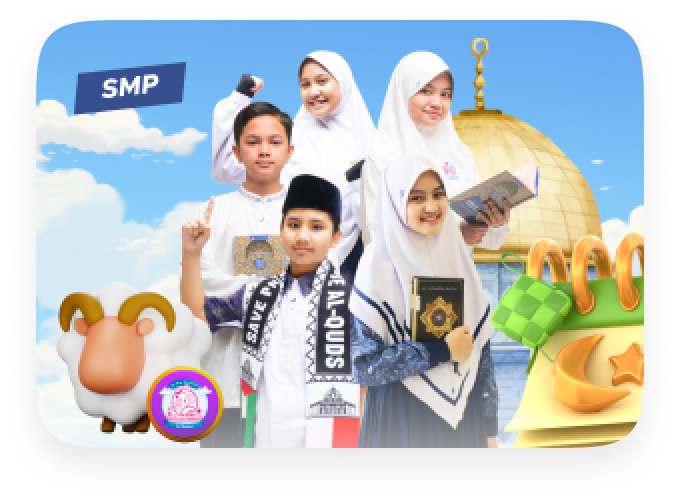
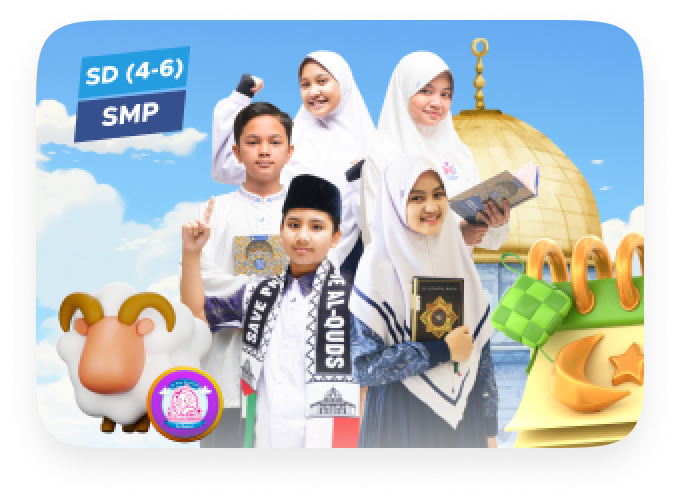
update edukasi qurban klasifikasi jenjang materi

Changed region(s): [[0.0926, 0.09, 0.2779, 0.3]]

diff --git a/app/Http/Controllers/QurbanController.php b/app/Http/Controllers/QurbanController.php
@@ -8,6 +8,7 @@ use App\Models\HaveWatch;
 use App\Models\Profile;
 use Illuminate\Http\Request;
 use Illuminate\Support\Facades\Auth;
+use Illuminate\Support\Facades\DB;
 use Illuminate\Support\Facades\Storage;
 use Maatwebsite\Excel\Facades\Excel;
 
@@ -117,9 +118,38 @@ class QurbanController extends Controller
         $user_id = Auth::user()->id;
         $user_phone = Auth::user()->no_hp;
 
-        $get_jenjang = Profile::where('no_hp_ibu', $user_phone)->groupby('sekolah_id')->get();
+        $keys = ['7', '5', '6', '7', '8', '9'];
+        $keywords = [];
+        foreach($keys as $key){
+            $keywords[] = ['nama_kelas', 'LIKE', '%'.$key.'%'];
+        }
 
-        return view('ortu.qurban.index', compact('get_jenjang'));
+        $get_jenjang_tksd = DB::table('m_profile')->where('no_hp_ibu', $user_phone)  
+                            ->Where(function ($query) {
+                                $query->whereIn('jenjang_id', [1,2])
+                                    ->orwhere('nama_kelas', 'like', '1%')
+                                    ->orwhere('nama_kelas', 'like', '2%')
+                                    ->orwhere('nama_kelas', 'like', '3%');
+                                    
+
+                            })
+                            ->groupBy('no_hp_ibu')
+                            ->get();
+
+        $get_jenjang = DB::table('m_profile')->where('no_hp_ibu', $user_phone) 
+                            ->Where(function ($query) {
+                                $query->where('jenjang_id', 4)
+                                    ->orwhere('nama_kelas', 'like', '4%')
+                                    ->orwhere('nama_kelas', 'like', '5%')
+                                    ->orwhere('nama_kelas', 'like', '6%')
+                                    ->orwhere('nama_kelas', 'like', '7%')
+                                    ->orwhere('nama_kelas', 'like', '8%')
+                                    ->orwhere('nama_kelas', 'like', '9%');
+                            })
+                            ->groupBy('no_hp_ibu')
+                            ->get();
+
+        return view('ortu.qurban.index', compact('get_jenjang_tksd', 'get_jenjang'));
         
     }
 

diff --git a/resources/views/ortu/qurban/index.blade.php b/resources/views/ortu/qurban/index.blade.php
@@ -11,24 +11,24 @@
     </div>
 
     <div class="container mt-0 pt-0">
-        @foreach ($get_jenjang as $item)
-            @if ($item->sekolah_id != 'UBRSMP' || $item->user_id == 2)
+        @if ($get_jenjang_tksd)
+            @foreach ($get_jenjang_tksd as $item)
                 <div class="center">
                     <a style="text-decoration: none" href="{{route('qurban.tksd')}}"> 
                         <img src="{{ asset('assets/images/qurban-tksd.png') }}" alt="qrb_tk_sd" style="border-radius: 0.4rem" width="100%" >
                     </a>
                 </div>
-            @endif
-        @endforeach
+            @endforeach
+        @endif
 
-        @foreach ($get_jenjang as $item)
-            @if ($item->sekolah_id == 'UBRSMP' || $item->user_id == 2)
+        @if ($get_jenjang)
+            @foreach ($get_jenjang as $item)
                 <div class="center">
                     <a style="text-decoration: none" href="{{route('qurban.smp')}}"> 
                         <img src="{{ asset('assets/images/qurban-smp.png') }}" alt="qrb_smp" style="border-radius: 0.4rem" width="100%" >
                     </a>
                 </div>
-            @endif
-        @endforeach
+            @endforeach
+        @endif
     </div>
 @endsection
